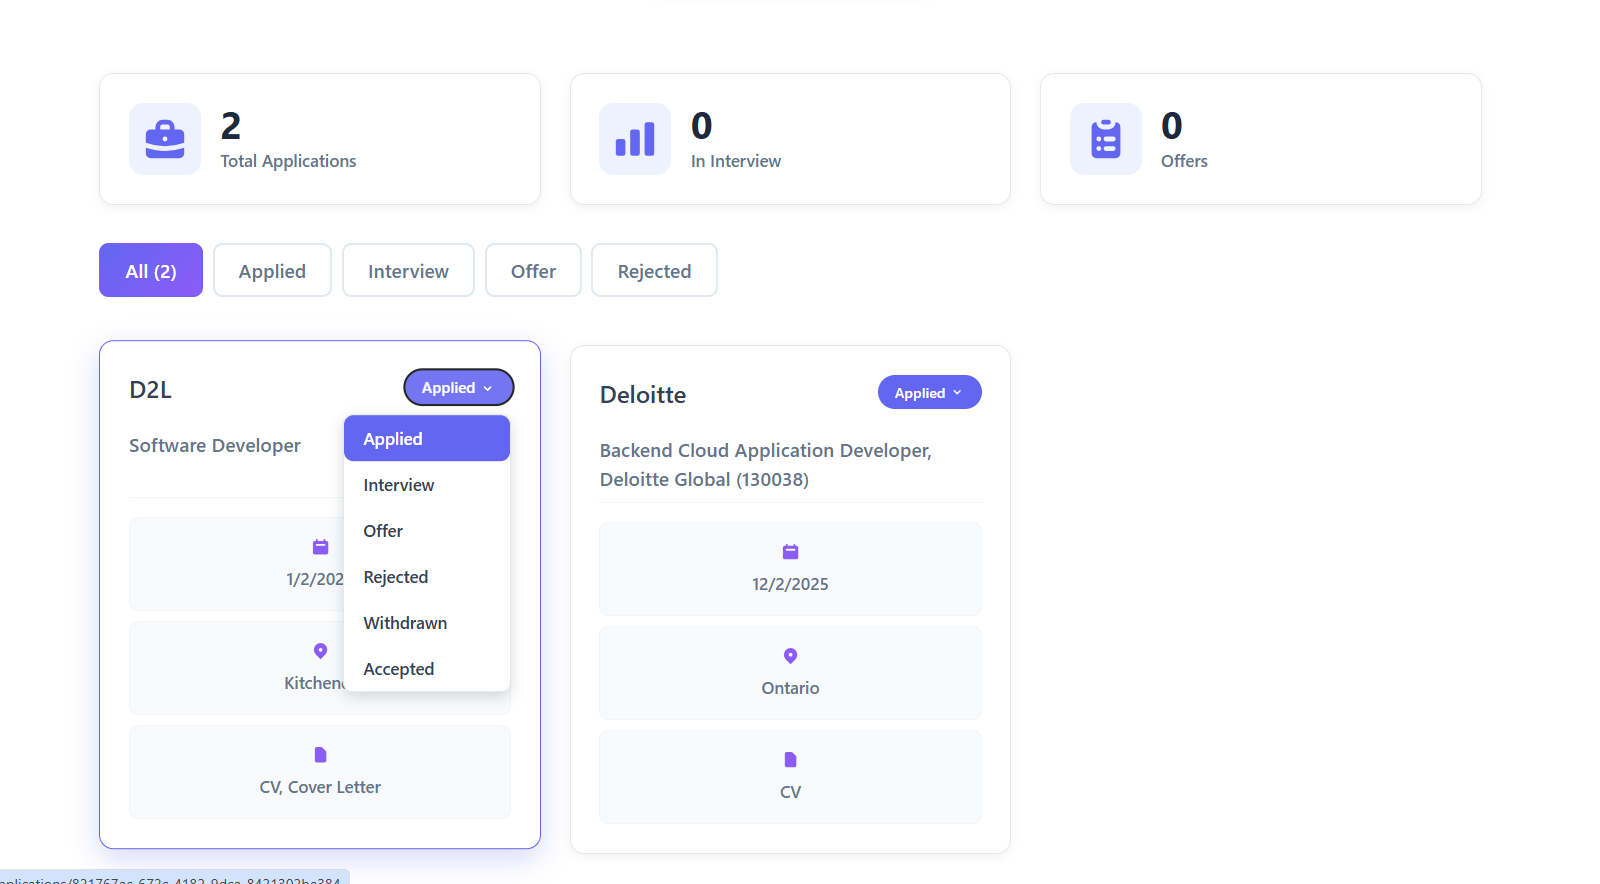
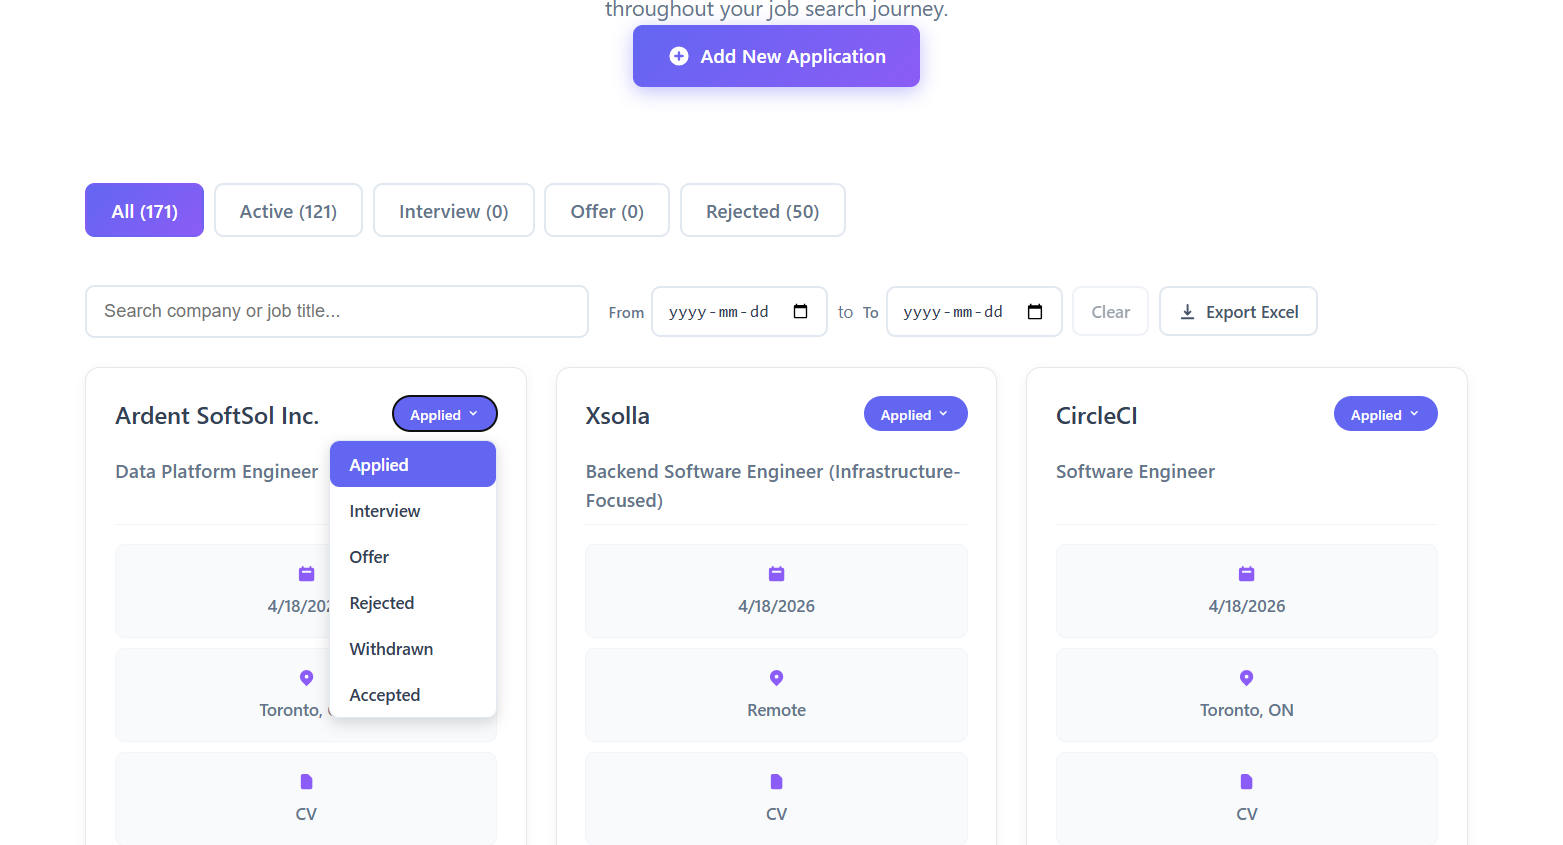
Updated the README file and screenshots

diff --git a/README.md b/README.md
@@ -9,20 +9,25 @@ I built CTrackr to replace spreadsheets and manual tracking for job applications
 This project demonstrates:
 - **Full-stack development** with modern React and TypeScript
 - **Serverless architecture** using AWS Lambda, API Gateway, and DynamoDB
-- **Infrastructure as Code** with Terraform for reproducible deployments
-- **Production-ready features** including authentication, file management, and user data isolation
+- **Infrastructure as Code** with Terraform for reproducible deployments (applied manually when infrastructure changes)
+- **Continuous delivery** for the static frontend via GitHub Actions (build → S3 → CloudFront invalidation)
+- **Production-ready features** including authentication, file management, user data isolation, and AI-assisted documents
 - **Best practices** in security, scalability, and maintainability
 
 ## 🚀 Features
 
 ### Job Application Management
 - **CRUD Operations**: Create, read, update, and delete job applications
-- **Status Tracking**: Track applications through various stages (Applied, Interview, Offer, Rejected, etc.)
-- **Advanced Filtering**: Filter applications by status, company, date, and more
-- **Detailed Information**: Store company details, position, salary, location, contact information, notes, and more
+- **Status Tracking**: Full lifecycle including Applied, Interview, Offer, Rejected, Withdrawn, and Accepted
+- **Dashboard Filters**: Status tabs (including “Active” for in-progress pipelines), search by company/position, and applied-date range
+- **CSV Export**: Download the current filtered list as a UTF-8 CSV for reporting
+- **Client-Side Cache**: Recent application lists are cached locally for faster loads, with background refresh
+- **Detailed Information**: Store company details, position, salary, location, contact information, job URL, notes, job description, and requirements
 - **Interview Management**: Track interview dates, times, places, and links
-- **File Attachments**: Upload and manage CV and Cover Letter files for each application
-- **S3 File Management**: Automatic file deletion when applications are removed
+- **File Attachments**: Upload and manage CV and cover letter files; optional **version history** per document (uploaded vs AI-generated)
+- **Job Posting URL**: Paste a job URL to **extract** structured fields (company, role, description, requirements, contacts) via the backend
+- **Match Score**: AI-assisted **fit score** and narrative (strengths/gaps) comparing your profile to the role
+- **S3 File Management**: Automatic file deletion when applications are removed; cleanup paths for generated documents when appropriate
 
 ### User Profile Management
 - **Comprehensive Profile**: Manage personal information, contact details, and professional links
@@ -34,11 +39,12 @@ This project demonstrates:
 - **Languages**: Track language proficiencies
 - **PDF Generation**: Generate professional CV/Resume PDFs from profile data (client-side)
 
-### AI-Assisted Draft Generation (Future Feature)
-- **AWS Bedrock Integration**: AI-assisted CV and cover letter tailoring using Amazon Bedrock
-- **ATS-Optimized Content**: Designs ATS-aware keywords and content structure based on user profile and job requirements
-- **Smart Drafting**: Generates personalized drafts for users to review and finalize
-- **Context-Aware**: Leverages job descriptions and requirements to create targeted documents
+### AI-Assisted Documents & Job Insights
+- **AWS Bedrock**: Server-side CV and cover letter generation (structured prompts, PDF output, upload to S3)
+- **Generate Documents UI**: Routes `/applications/:id/generate` and `/generate-documents` for tailoring documents to a specific application
+- **Inline Generation**: Generate CV/cover letter while creating or editing an application, with version tracking
+- **ATS-Oriented Output**: Prompts emphasize clear structure and role-relevant keywords from your profile and the job text
+- **Context-Aware**: Uses job description, requirements, and parsed job metadata when available
 
 ### Authentication & Security
 - **AWS Cognito Integration**: Secure user authentication and authorization
@@ -62,6 +68,7 @@ This project demonstrates:
 - **API**: AWS API Gateway (HTTP API)
 - **Database**: AWS DynamoDB
 - **File Storage**: AWS S3
+- **Generative AI**: Amazon Bedrock (foundation models for document generation, job parsing, and match scoring)
 - **CDN**: AWS CloudFront
 - **DNS**: AWS Route 53
 - **SSL/TLS**: AWS Certificate Manager (ACM)
@@ -69,7 +76,8 @@ This project demonstrates:
 - **Authentication**: AWS Cognito
 
 ### Infrastructure
-- **IaC**: Terraform
+- **IaC**: Terraform (infrastructure and Lambda packaging; run locally or in your pipeline when you change backend/IaC)
+- **CI/CD**: GitHub Actions deploys the **Vite frontend** to S3 and invalidates CloudFront on pushes to `main` (Terraform is **not** part of this workflow)
 - **Region**: ca-central-1 (primary), us-east-1 (CloudFront certificates)
 - **Domain**: Custom domain support via Route 53
 
@@ -81,20 +89,22 @@ CTrackr/
 │   ├── components/              # Reusable React components
 │   │   ├── Layout.tsx          # Main layout with navigation
 │   │   └── ProtectedRoute.tsx  # Route protection component
-│   ├── pages/                   # Page components
+│   ├── pages/                   # Page components (with co-located CSS where used)
 │   │   ├── Home.tsx            # Landing page
 │   │   ├── Login.tsx           # Authentication page
-│   │   ├── Applications.tsx    # Application list page
+│   │   ├── Applications.tsx    # Application list (filters, export, cache)
 │   │   ├── ApplicationDetail.tsx # Application detail page
-│   │   ├── NewApplication.tsx  # Create application page
+│   │   ├── NewApplication.tsx  # Create/edit application (uploads, AI generation, job URL)
+│   │   ├── GenerateDocuments.tsx # AI CV / cover letter generation flow
 │   │   └── Profile.tsx         # User profile management
 │   ├── contexts/                # React contexts
 │   │   └── AuthContext.tsx     # Authentication context
 │   ├── utils/                   # Utility functions
 │   │   ├── api.ts              # API client functions
-│   │   └── auth.ts             # Authentication utilities
+│   │   ├── auth.ts             # Authentication utilities
+│   │   └── date.ts             # Date formatting helpers for display and filters
 │   ├── types/                   # TypeScript type definitions
-│   │   ├── application.ts      # Application types
+│   │   ├── application.ts      # Application types (statuses, versions, parsed job)
 │   │   └── user.ts             # User profile types
 │   └── vite-env.d.ts           # Vite environment types
 ├── lambda/                       # AWS Lambda functions
@@ -103,6 +113,9 @@ CTrackr/
 │   ├── list-applications/      # List applications (with user filtering)
 │   ├── update-application/     # Update application
 │   ├── delete-application/     # Delete application + S3 files
+│   ├── get-job-info/           # Extract job fields from a posting URL (Bedrock)
+│   ├── match-score/            # Profile vs job fit score (Bedrock)
+│   ├── generate-documents/     # Generate CV / cover letter PDFs (Bedrock + S3)
 │   ├── get-profile/            # Get user profile
 │   ├── update-profile/         # Update user profile
 │   ├── get-upload-url/         # Generate S3 presigned URLs
@@ -114,6 +127,8 @@ CTrackr/
 │   └── terraform.tfvars.example # Example configuration
 ├── public/                       # Static assets
 │   └── logo.svg                # Application logo
+├── screenshots/                  # README screenshots (optional)
+├── .github/workflows/            # CI/CD: frontend deploy to S3 + CloudFront
 └── package.json                 # Frontend dependencies
 ```
 
@@ -152,6 +167,9 @@ cd lambda/get-profile && npm install && cd ../..
 cd lambda/update-profile && npm install && cd ../..
 cd lambda/get-upload-url && npm install && cd ../..
 cd lambda/delete-file && npm install && cd ../..
+cd lambda/get-job-info && npm install && cd ../..
+cd lambda/match-score && npm install && cd ../..
+cd lambda/generate-documents && npm install && cd ../..
 ```
 
 4. **Configure Terraform variables:**
@@ -219,6 +237,14 @@ VITE_AWS_REGION=ca-central-1
 - `PUT /applications/{id}` - Update an application
 - `DELETE /applications/{id}` - Delete an application and associated S3 files
 
+### Job insights & AI documents
+- `POST /job-info` - Extract structured fields from a job posting URL  
+  - Body: `{ jobUrl }`
+- `POST /match-score` - Score how well a user profile matches a job application payload  
+  - Body: `{ userProfile, jobApplication }`
+- `POST /generate-documents` - Generate CV or cover letter PDF (uploads to S3; returns URLs/keys)  
+  - Body: `{ userProfile, jobApplication, documentType, timezoneOffset }` (and related fields as implemented)
+
 ### Profile
 - `GET /profile?userId={userId}` - Get user profile
 - `PUT /profile?userId={userId}` - Update user profile
@@ -246,6 +272,10 @@ VITE_AWS_REGION=ca-central-1
   - `cvFileKey` (String) - S3 key for CV file
   - `coverLetterUrl` (String) - Cover letter file URL
   - `coverLetterFileKey` (String) - S3 key for cover letter file
+  - `jobDescription` (String) - Job description text when captured
+  - `requirements` (String) - Requirements / qualifications text when captured
+  - `cvVersions` / `coverLetterVersions` (List) - Optional per-document version history (uploaded vs generated)
+  - `parsedJob` (Map) - Optional structured metadata from job URL parsing / AI prep
   - `createdAt` (String) - Creation timestamp
   - `updatedAt` (String) - Last update timestamp
   - And more...
@@ -307,18 +337,21 @@ VITE_AWS_REGION=ca-central-1
     - Custom domain support (if domain provided)
 
 ### Compute & API
-- **AWS Lambda** (9 functions):
+- **AWS Lambda** (12 functions):
   - `create-application` - Create new job applications
   - `get-application` - Retrieve single application
   - `list-applications` - List applications with user filtering
   - `update-application` - Update application details
   - `delete-application` - Delete application and S3 files
+  - `get-job-info` - Extract job fields from a posting URL (Bedrock)
+  - `match-score` - Profile vs job fit score and narrative (Bedrock)
+  - `generate-documents` - Generate CV / cover letter PDFs (Bedrock, S3 upload)
   - `get-profile` - Get user profile
   - `update-profile` - Update user profile
   - `get-upload-url` - Generate S3 presigned URLs
   - `delete-file` - Delete files from S3
 - **AWS API Gateway** (HTTP API):
-  - 9 API routes
+  - 12 API routes (applications, profile, uploads, job-info, match-score, generate-documents)
   - CORS enabled
   - Auto-deploy stage
   - Lambda integrations
@@ -401,18 +434,23 @@ VITE_AWS_REGION=ca-central-1
 *Landing page with hero section, feature highlights, and call-to-action buttons*
 
 #### Applications Dashboard
-![Applications Dashboard - All](./screenshots/Aplications_1.png)
+The list view combines **status tabs** (including Active), **search** by company or position, an **applied-date range** (from / to), and **CSV export** of whatever is currently shown.
+
+![Applications Dashboard - All](./screenshots/Applications_1.png)
 *Applications dashboard with summary statistics and application cards*
 
 ![Applications Dashboard - Filtered](./screenshots/Applications_2.png)
-*Filtered view showing applications by status*
+*Filtered list (e.g. by status); the same toolbar also supports search, date range, and export*
 
-![Applications Dashboard - Filter Tabs](./screenshots/Filter.png)
-*Status filter tabs for easy navigation*
+![Applications Dashboard - Filters & export](./screenshots/Filter.png)
+*Status filters together with search, applied-date range, and CSV export*
 
 #### New Application Form
 ![New Application Form - Overview](./screenshots/NewApplication_1.png)
 *Main form fields for company, position, dates, and contact information*
+
+![New Application Form - Job URL & Get Information](./screenshots/NewApplication_Get.png)
+*Job posting URL and Get Information control to extract fields from the listing*
 
 ![New Application Form - Job Details](./screenshots/NewApplication_2.png)
 *Job details section with description and requirements fields*
@@ -425,6 +463,9 @@ VITE_AWS_REGION=ca-central-1
 
 ![New Application Form - Documents Uploaded](./screenshots/NewApplication_5.png)
 *Documents section with uploaded files displayed*
+
+![New Application Form - Generate documents & Match Score](./screenshots/NewApplication_Generate_Match.png)
+*Generate CV / Cover Letter and Match Score section (profile vs role)*
 
 #### Application Detail/Edit
 ![Application Edit](./screenshots/Edit.png)
@@ -456,13 +497,16 @@ VITE_AWS_REGION=ca-central-1
 ### Application Management
 - **Applications Dashboard**:
   - Summary statistics cards (Total Applications, In Interview, Offers)
-  - Status filter tabs (All, Applied, Interview, Offer, Rejected)
+  - Status filter tabs (All, Active, Applied, Interview, Offer, Rejected, Withdrawn, Accepted)
+  - Search, applied-date range, and CSV export
   - Application cards with company, position, date, location, and document indicators
   - Interactive status dropdown for quick updates
 - **New Application Form**:
   - Comprehensive form with company, position, dates, location, salary fields
+  - Job posting URL with **extract** flow and **match score** against your profile
   - Job details section for descriptions and requirements
   - File upload areas for CV and Cover Letter with drag-and-drop support
+  - Optional **AI-generated** CV/cover letter with version history alongside uploads
   - Real-time file upload progress and management
 - **Application Detail/Edit**:
   - Modal or dedicated page for editing application details
@@ -491,7 +535,15 @@ VITE_AWS_REGION=ca-central-1
 - **Structured Naming**: Automatic file naming with user ID, category, company, date, and time
 - **Timezone Support**: Local timezone-aware file naming
 - **Automatic Cleanup**: Files deleted when applications are removed
-- **Versioning**: S3 versioning enabled for file recovery
+- **Versioning**: S3 versioning enabled for file recovery; application records can track **uploaded vs generated** document versions
+
+### Job URL & fit analysis
+- **Extract job info**: POST `/job-info` parses a posting URL to populate company, role, description, requirements, and contacts where possible
+- **Match score**: POST `/match-score` returns a score, summary, strengths, and gaps for a profile–role pair
+
+### AI document generation
+- **Bedrock-backed**: `generate-documents` Lambda builds PDFs and stores them in the uploads bucket
+- **UI entry points**: Dedicated `/generate-documents` and `/applications/:id/generate` routes, plus inline actions on the new-application flow
 
 ### Profile Management
 - **Categorized Skills**: Organize skills into categories (e.g., "Frontend", "Backend", "DevOps")
@@ -522,6 +574,7 @@ VITE_AWS_REGION=ca-central-1
 - **AWS DynamoDB**: NoSQL database
 - **AWS S3**: File storage
 - **AWS CloudFront**: CDN
+- **Amazon Bedrock**: Model inference for documents, job parsing, and match scoring
 - **AWS Cognito**: Authentication
 - **AWS SES**: Email service
 - **AWS Route 53**: DNS management
@@ -543,6 +596,8 @@ VITE_AWS_REGION=ca-central-1
 ```
 
 ### Terraform (terraform.tfvars)
+See `terraform/terraform.tfvars.example` for a full example. Important values include:
+
 ```hcl
 aws_region = "ca-central-1"
 domain_name = "ctrackr.example.com"
@@ -550,37 +605,50 @@ ses_sender_email = "noreply@example.com"
 project_name = "ctrackr"
 environment = "prod"
 bucket_name = "ctrackr-website-prod"
+bedrock_model_id = "global.anthropic.claude-sonnet-4-5-20250929-v1:0"        # example — use models enabled in your account/region
+bedrock_haiku_model_id = "anthropic.claude-3-haiku-20240307-v1:0"            # example — used for lighter parsing/scoring tasks
 ```
 
 ## 🚀 Deployment
 
-### Initial Deployment
+### Frontend: GitHub Actions (automatic)
 
-1. **Deploy Infrastructure:**
+Pushes to the `main` branch trigger the workflow in `.github/workflows/deploy.yml`:
+
+1. `npm install` + `npm run build` (Vite output in `dist/`)
+2. `aws s3 sync dist/` to the website bucket (e.g. `ctrackr-website-prod`)
+3. CloudFront invalidation for `/*`
+
+Configure repository **Secrets**: `AWS_ACCESS_KEY_ID` and `AWS_SECRET_ACCESS_KEY` with permission to sync to the bucket and create invalidations. The workflow does **not** run Terraform or deploy Lambda code.
+
+### Infrastructure & Lambda (Terraform, manual)
+
+Terraform provisions API Gateway, DynamoDB, Cognito, S3, CloudFront, Lambda packages, and IAM. Run it when you change infrastructure or backend Lambda source:
+
 ```bash
 cd terraform
 terraform init
 terraform apply
 ```
 
-2. **Build Frontend:**
+Lambda functions are packaged and uploaded by Terraform when you apply.
+
+### Initial full setup (first time)
+
+1. **Deploy infrastructure** (see above).
+2. **Configure frontend env** (`.env` / production build) with `VITE_API_BASE_URL`, Cognito IDs, and region from Terraform outputs.
+3. **Deploy frontend** either by pushing to `main` (recommended) or manually:
 ```bash
 npm run build
-```
-
-3. **Deploy Frontend:**
-```bash
 aws s3 sync dist/ s3://ctrackr-website-prod --delete
-aws cloudfront create-invalidation --distribution-id E3OJLQS0UXAUC5 --paths "/*"
+aws cloudfront create-invalidation --distribution-id YOUR_DISTRIBUTION_ID --paths "/*"
 ```
+Use `YOUR_DISTRIBUTION_ID` from `terraform output` (example: `E3OJLQS0UXAUC5`).
 
-### Updating Lambda Functions
+### Updating Frontend (manual alternative)
 
-Lambda functions are automatically deployed via Terraform when you run `terraform apply`. The Terraform configuration packages and uploads each Lambda function.
+If you are not using GitHub Actions for a given build:
 
-### Updating Frontend
-
-After making frontend changes:
 ```bash
 npm run build
 aws s3 sync dist/ s3://ctrackr-website-prod --delete
@@ -593,10 +661,13 @@ aws cloudfront create-invalidation --distribution-id YOUR_DISTRIBUTION_ID --path
 
 - [ ] User registration and login
 - [ ] Create new application
+- [ ] Extract fields from a job posting URL (`/job-info`)
+- [ ] Run match score against profile (`/match-score`)
+- [ ] Generate AI CV or cover letter (`/generate-documents` or inline on new application)
 - [ ] Upload CV and Cover Letter files
 - [ ] Delete files from S3
 - [ ] Update application details
-- [ ] Filter applications by status
+- [ ] Filter applications by status, search, date range; export CSV
 - [ ] Create and update user profile
 - [ ] Generate PDF CV from profile
 - [ ] Delete application (should also delete S3 files)
